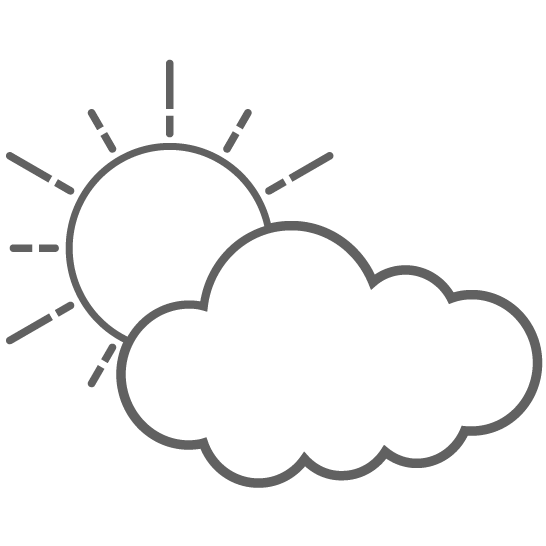
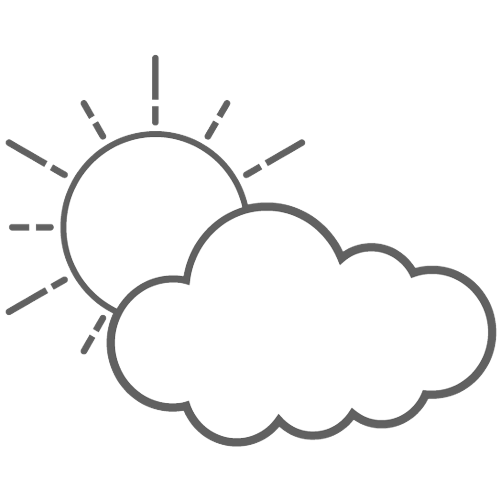
Uploaded and replaced png files with no background

diff --git a/index.html b/index.html
@@ -34,7 +34,7 @@
                 <h3 id="celcius" style="display: inline-block"><strong>°C</strong></h3>
                 <h3 id="fahrenheit" style="display: inline-block">°F</h3>
             </div>
-            <img src="images/sunny2.png" alt="sunny-icon" class="main-image">
+            <img src="images/showers.png" alt="sunny-icon" class="main-image">
             <div class="main-text">
                 <h1 class="temp" id="temp">°</h1>
                 <br>
